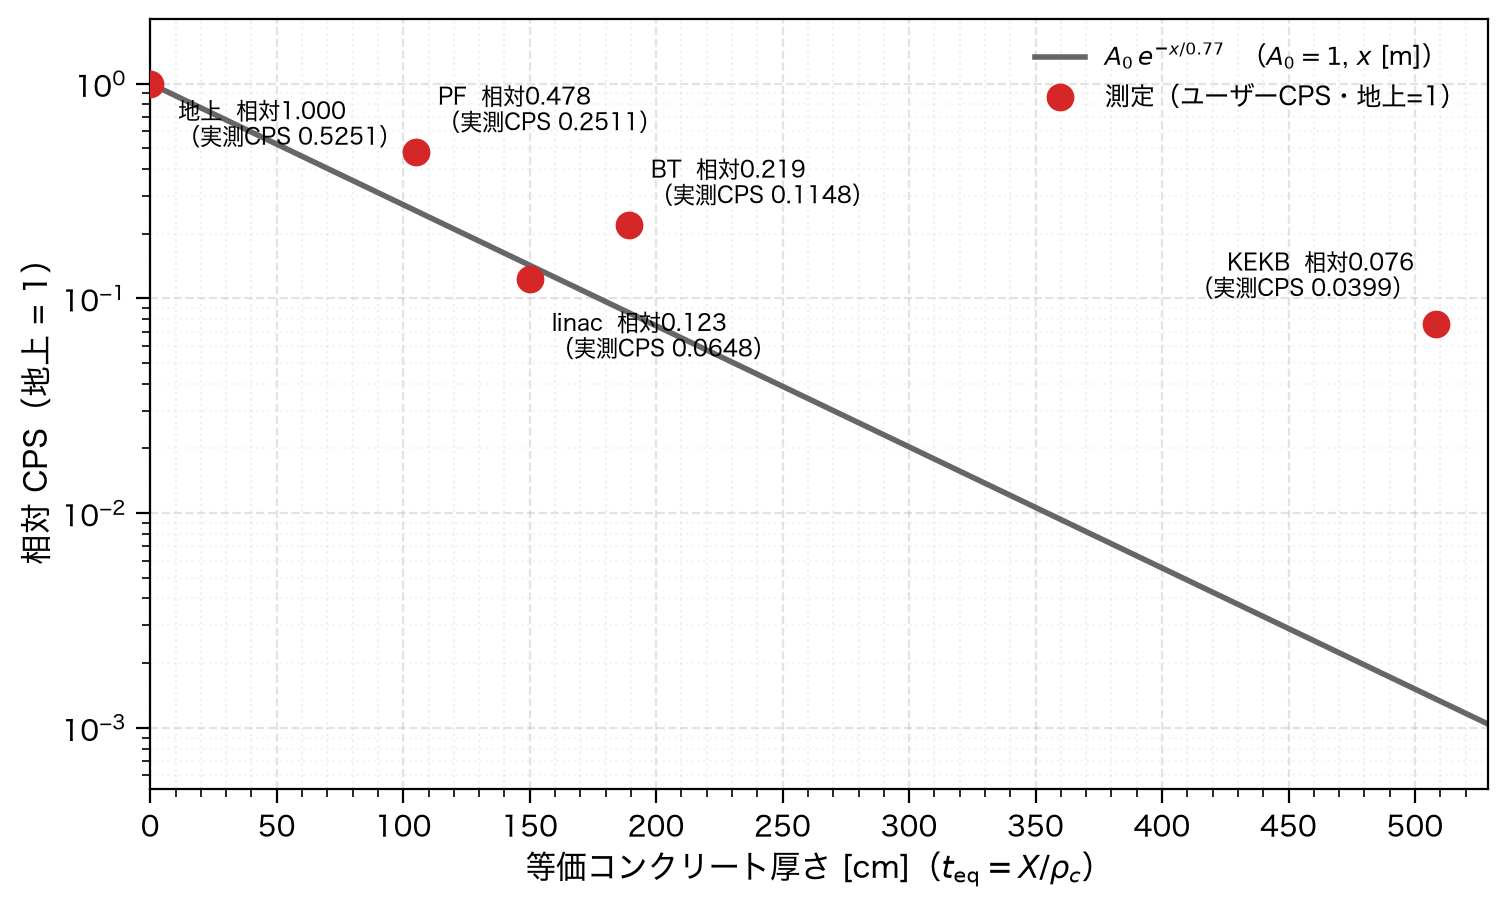
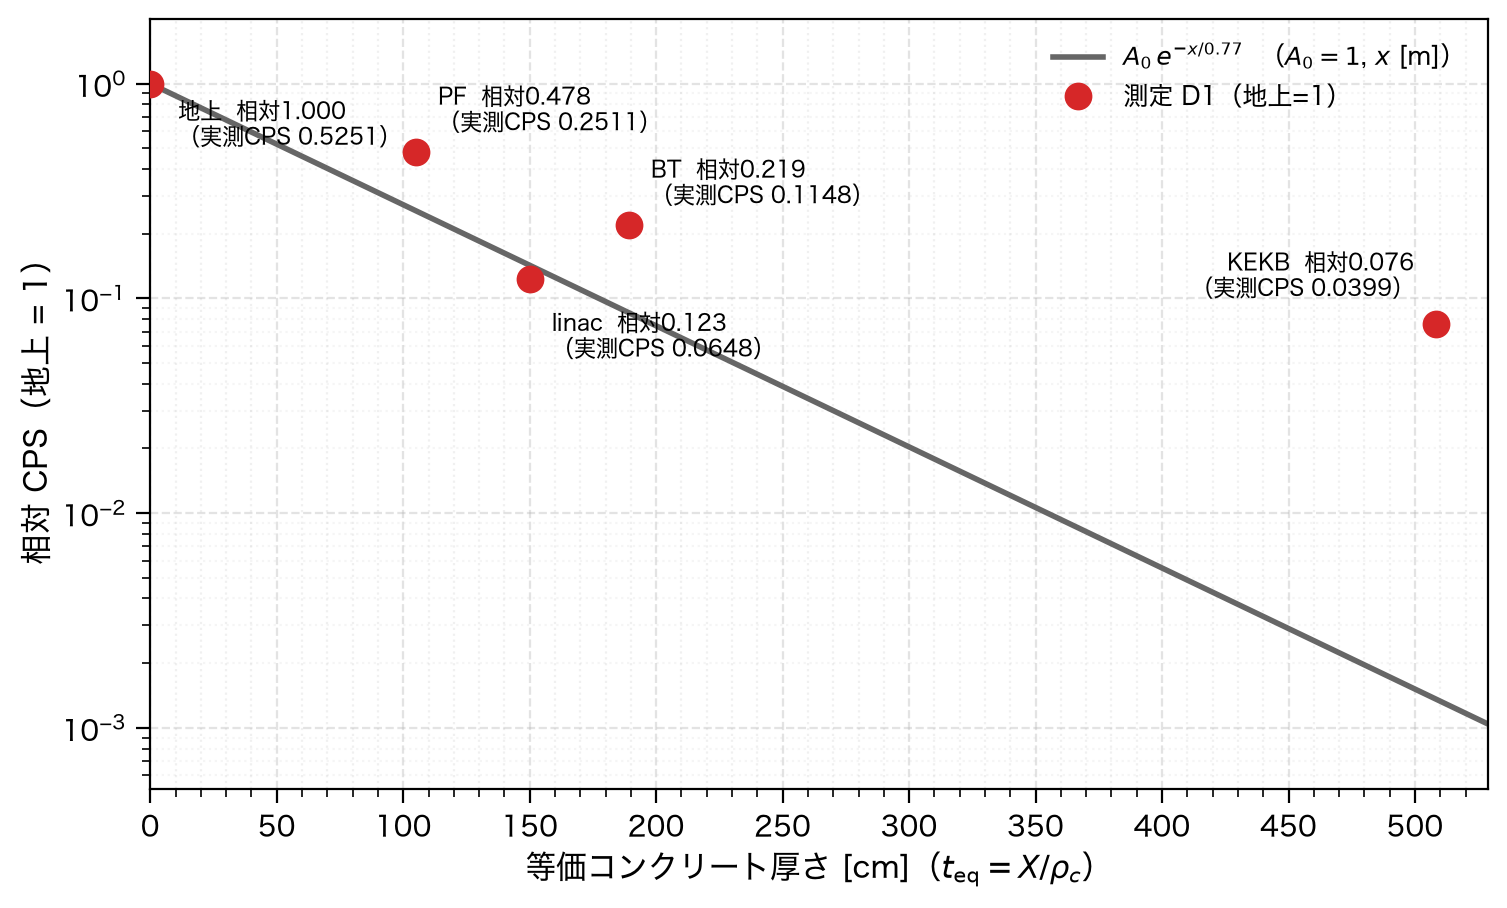
feat: d2をユーザーCPSに切替え、等価コンクリート図とlinac_cosmic入力を更新

Changed region(s): [[0.6861, 0.0308, 0.9668, 0.1233]]

diff --git a/03_今年度用/_plot_mca.py b/03_今年度用/_plot_mca.py
@@ -585,12 +585,12 @@ USER_CPS = {
     "PF": 0.25108616,
 }
 
-# d2（SN 2162 系）の raw MCA。地上は未測定。
-D2_MCA = {
-    "PF": "20260820_0807_PF_d2.mca",
-    "linac": "20260821_080725_linac_d2.mca",
-    "BT": "20260819_1859_放射線棟BT_d2.mca",
-    "KEKB": "20260820_1939_KEKB_d2.mca",
+# d2: 分子/分母（ユーザー指定）。PF・地上はなし。
+# BT 144/9541.27, KEKB 336/39042.15, linac 568/42626.85
+USER_CPS_D2 = {
+    "linac": 568 / 42626.85,
+    "BT": 144 / 9541.27,
+    "KEKB": 336 / 39042.15,
 }
 
 
@@ -660,21 +660,8 @@ def _site_shielding_d1() -> list[dict]:
 
 
 def load_d2_cps() -> dict[str, float]:
-    """d2 MCA の自動 ROI gross / REAL_TIME（Book5 と同型の 分子/分母）。
-
-    地上は raw に無いため含まない。相対規格化は PF を基準にする。
-    """
-    from mca_common import find_roi, parse_mca
-
-    raw = DATA / "raw"
-    out: dict[str, float] = {}
-    for label, name in D2_MCA.items():
-        meta = parse_mca(raw / name)
-        counts = np.asarray(meta["counts"], dtype=float)
-        real = float(meta["REAL_TIME"])
-        lo, hi, _ = find_roi(counts)
-        out[label] = float(counts[lo : hi + 1].sum() / real)
-    return out
+    """d2 のユーザー CPS（分子/分母）。PF・地上は含まない。"""
+    return dict(USER_CPS_D2)
 
 
 def _site_shielding_composition() -> list[dict]:
@@ -705,12 +692,14 @@ def fig_all_sites_equiv_concrete(
     name_suffix: str = "",
     csv_name: str = "等価コンクリート_減衰.csv",
     measure_label: str | None = None,
+    detector: str = "D1",
 ) -> None:
     """層厚換算 X + CPS。理論 A0·exp(-x/0.77)。
 
     absolute=False: 相対（ref_label=1）、図11
     absolute=True:  実測 CPS [1/s]、図12
     logy=True: 片対数（Y対数）。図11/12の片対数版を別ファイルに保存。
+    detector: 凡例に出す検出器名（D1 / d2）。
     """
     from matplotlib.ticker import LogLocator, MultipleLocator
 
@@ -722,16 +711,16 @@ def fig_all_sites_equiv_concrete(
     ref_site = next(s for s in sites if s["label"] == ref_label)
     x_ref = _equiv_concrete_cm_from_x(ref_site["X"])
     theory_at_ref = float(np.asarray(_theory_rel(x_ref, 1.0)).reshape(-1)[0])
-    # 基準が地上(x=0)ならそのまま。それ以外は理論減衰で x=0 へ外挿した A0 を使う
+    # 基準が地上(x=0)ならそのまま。それ以外は理論減衰で x=0 へ外挿した A0 を使う。
+    # 表示（軸・凡例）は図11/12と同じく常に「地上」。
     if ref_label == "地上" or x_ref <= 0:
         cps0 = cps_ref
-        rel_tag = "地上"
     else:
         cps0 = cps_ref / theory_at_ref if theory_at_ref > 0 else cps_ref
-        rel_tag = "外挿地上"
+    rel_tag = "地上"
     a0 = cps0 if absolute else 1.0
     lam_air = 1475.0 * 100.0
-    rel_key = f"相対_{rel_tag}1"
+    rel_key = "相対_地上1"
 
     rows = []
     points = []
@@ -805,9 +794,9 @@ def fig_all_sites_equiv_concrete(
 
     if measure_label is None:
         measure_label = (
-            "測定（実測CPS）"
+            f"測定 {detector}（実測CPS）"
             if absolute
-            else f"測定（ユーザーCPS・{rel_tag}=1）"
+            else f"測定 {detector}（{rel_tag}=1）"
         )
     ax.plot(
         [p["x"] for p in points],
@@ -879,17 +868,12 @@ def fig_all_sites_equiv_concrete(
         ax.grid(True, which="minor", axis="y", alpha=0.12, linestyle=":")
         ax.grid(True, which="minor", axis="x", alpha=0.18, linestyle=":")
     else:
-        # 地上点がある通常図は A0 まで見せる。d2 等で地上が無い場合はデータ付近を拡大
-        has_ground = any(p["label"] == "地上" for p in points)
-        if absolute and not has_ground:
-            y_top = y_data_max * 1.25
-        else:
-            y_top = max(y_data_max, a0) * 1.12
+        # 図11/12 と同じく A0（地上相当）まで見せる
+        y_top = max(y_data_max, a0) * 1.12
         ax.set_ylim(0, y_top)
         if absolute:
-            major = 0.05 if y_top > 0.25 else 0.02
-            ax.yaxis.set_major_locator(MultipleLocator(major))
-            ax.yaxis.set_minor_locator(MultipleLocator(major / 5))
+            ax.yaxis.set_major_locator(MultipleLocator(0.05))
+            ax.yaxis.set_minor_locator(MultipleLocator(0.01))
         else:
             ax.yaxis.set_major_locator(MultipleLocator(0.1))
             ax.yaxis.set_minor_locator(MultipleLocator(0.02))
@@ -936,20 +920,16 @@ def fig_all_sites_equiv_concrete_cps_semilog(d: dict | None = None) -> None:
 def fig_all_sites_equiv_concrete_d2(
     absolute: bool = False, logy: bool = False
 ) -> None:
-    """d2 検出器版の図11/12。地上未測定のため PF から地上 CPS を外挿して規格化。"""
+    """d2 検出器版の図11/12。地上・PF なしのため linac から地上 CPS を外挿。"""
     cps = load_d2_cps()
     fig_all_sites_equiv_concrete(
         absolute=absolute,
         logy=logy,
         cps_map=cps,
-        ref_label="PF",
+        ref_label="linac",
         name_suffix="_d2",
         csv_name="等価コンクリート_減衰_d2.csv",
-        measure_label=(
-            "測定（d2・実測CPS）"
-            if absolute
-            else "測定（d2・外挿地上=1）"
-        ),
+        detector="d2",
     )
 
 
@@ -1053,7 +1033,7 @@ def fig_all_sites_equiv_concrete_composition(
         color=RED,
         ms=9,
         zorder=3,
-        label="測定（実測CPS）" if absolute else "測定（ユーザーCPS・地上=1）",
+        label="測定（実測CPS）" if absolute else "測定（地上=1）",
     )
 
     offsets = {
